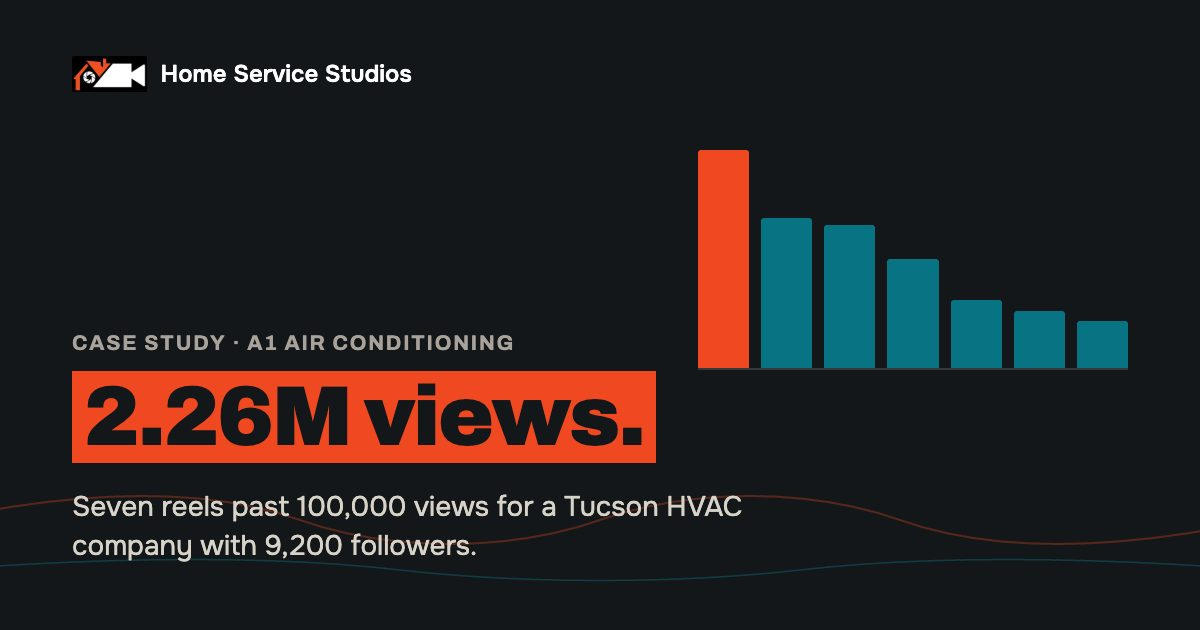
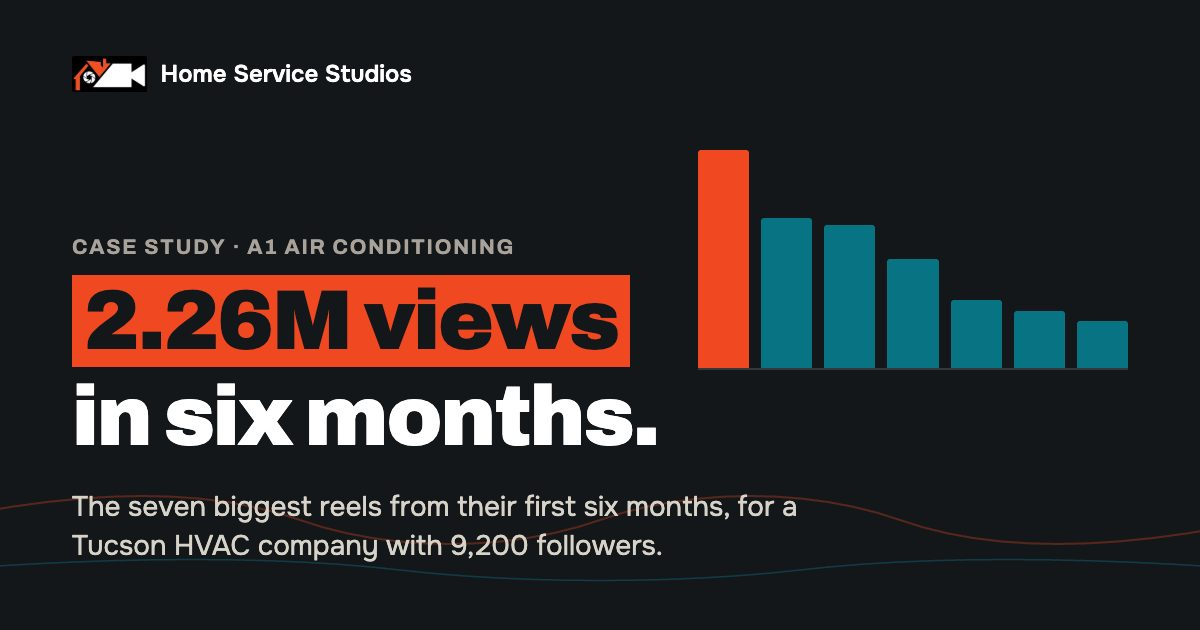
Deploy release 9: A1 results framed as their first six months
Built from 548a034.

Claude-Session: https://claude.ai/code/session_01ToX74WXy7pcyTTtmuot5ru

Changed region(s): [[0.0617, 0.3619, 0.555, 0.754], [0.0617, 0.7841, 0.6783, 0.9048]]

diff --git a/our-work/index.html b/our-work/index.html
@@ -10,10 +10,10 @@
 <link rel="preload" href="/fonts/archivo-700.woff2" as="font" type="font/woff2" crossorigin>
 <link rel="preload" href="/fonts/archivo-900.woff2" as="font" type="font/woff2" crossorigin>
 <title>Case Studies | Home Services Video Production | Home Service Studios</title>
-<meta name="description" content="Four home service companies and what changed: 2.26M views for A1 in Tucson, 3.8x the views for Bee Right There, 6.8x the followers for iComfort, ten spots from one shoot for All Heart.">
+<meta name="description" content="Four home service companies and what changed: 2.26M views in six months for A1 in Tucson, 3.8x the views for Bee Right There, 6.8x the followers for iComfort, ten spots from one shoot for All Heart.">
 <meta property="og:type" content="website">
 <meta property="og:title" content="Case Studies | Home Services Video Production | Home Service Studios">
-<meta property="og:description" content="Four home service companies and what changed: 2.26M views for A1 in Tucson, 3.8x the views for Bee Right There, 6.8x the followers for iComfort, ten spots from one shoot for All Heart.">
+<meta property="og:description" content="Four home service companies and what changed: 2.26M views in six months for A1 in Tucson, 3.8x the views for Bee Right There, 6.8x the followers for iComfort, ten spots from one shoot for All Heart.">
 <meta property="og:image" content="https://homeservicestudios.com/our-work/a/og-cover.jpg">
 <meta property="og:image:width" content="1200">
 <meta property="og:image:height" content="630">
@@ -25,7 +25,7 @@
 <meta name="twitter:image" content="https://homeservicestudios.com/our-work/a/og-cover.jpg">
[1 lines of base64/hex data omitted]
 <script type="application/ld+json">{"@context":"https://schema.org","@type":"ProfessionalService","name":"Home Service Studios","url":"https://homeservicestudios.com/","logo":"https://homeservicestudios.com/our-work/a/og-cover.jpg","image":"https://homeservicestudios.com/og/og-home.jpg","email":"info@homeservicestudios.com","address":{"@type":"PostalAddress","addressLocality":"Los Angeles","addressRegion":"CA","addressCountry":"US"},"areaServed":"US","priceRange":"$$$","description":"Video production for home service brands and creators.","hasOfferCatalog":{"@type":"OfferCatalog","name":"Social Media Packages","itemListElement":[{"@type":"Offer","name":"Baby Steps","description":"Your footage, posted every day","price":"1997","priceCurrency":"USD","availability":"https://schema.org/InStock","priceSpecification":{"@type":"UnitPriceSpecification","price":"1997","priceCurrency":"USD","unitCode":"MON","billingIncrement":"1"}},{"@type":"Offer","name":"Starter","description":"Two production days a year","price":"3847","priceCurrency":"USD","availability":"https://schema.org/InStock","priceSpecification":{"@type":"UnitPriceSpecification","price":"3847","priceCurrency":"USD","unitCode":"MON","billingIncrement":"1"}},{"@type":"Offer","name":"Bronze","description":"Starter with a bigger ad budget","price":"5847","priceCurrency":"USD","availability":"https://schema.org/InStock","priceSpecification":{"@type":"UnitPriceSpecification","price":"5847","priceCurrency":"USD","unitCode":"MON","billingIncrement":"1"}},{"@type":"Offer","name":"Silver","description":"Four production days a year","price":"7847","priceCurrency":"USD","availability":"https://schema.org/InStock","priceSpecification":{"@type":"UnitPriceSpecification","price":"7847","priceCurrency":"USD","unitCode":"MON","billingIncrement":"1"}},{"@type":"Offer","name":"Gold","description":"Two reels every weekday","price":"10847","priceCurrency":"USD","availability":"https://schema.org/InStock","priceSpecification":{"@type":"UnitPriceSpecification","price":"10847","priceCurrency":"USD","unitCode":"MON","billingIncrement":"1"}},{"@type":"Offer","name":"Platinum","description":"Gold plus a YouTube video a month","price":"13847","priceCurrency":"USD","availability":"https://schema.org/InStock","priceSpecification":{"@type":"UnitPriceSpecification","price":"13847","priceCurrency":"USD","unitCode":"MON","billingIncrement":"1"}}]}}</script>
-<script type="application/ld+json">{"@context":"https://schema.org","@type":"CollectionPage","name":"Case studies","url":"https://homeservicestudios.com/our-work/","description":"Four home service companies and what changed: 2.26M views for A1 in Tucson, 3.8x the views for Bee Right There, 6.8x the followers for iComfort, ten spots from one shoot for All Heart.","mainEntity":{"@type":"ItemList","itemListElement":[{"@type":"ListItem","position":1,"url":"https://homeservicestudios.com/our-work/a1-air-conditioning/","name":"A1 Air Conditioning case study"},{"@type":"ListItem","position":2,"url":"https://homeservicestudios.com/our-work/bee-right-there/","name":"Bee Right There Heating & Air case study"},{"@type":"ListItem","position":3,"url":"https://homeservicestudios.com/our-work/icomfort/","name":"iComfort Heating and Air Conditioning case study"},{"@type":"ListItem","position":4,"url":"https://homeservicestudios.com/our-work/all-heart/","name":"All Heart Heating, Cooling & Plumbing case study"}]}}</script>
+<script type="application/ld+json">{"@context":"https://schema.org","@type":"CollectionPage","name":"Case studies","url":"https://homeservicestudios.com/our-work/","description":"Four home service companies and what changed: 2.26M views in six months for A1 in Tucson, 3.8x the views for Bee Right There, 6.8x the followers for iComfort, ten spots from one shoot for All Heart.","mainEntity":{"@type":"ItemList","itemListElement":[{"@type":"ListItem","position":1,"url":"https://homeservicestudios.com/our-work/a1-air-conditioning/","name":"A1 Air Conditioning case study"},{"@type":"ListItem","position":2,"url":"https://homeservicestudios.com/our-work/bee-right-there/","name":"Bee Right There Heating & Air case study"},{"@type":"ListItem","position":3,"url":"https://homeservicestudios.com/our-work/icomfort/","name":"iComfort Heating and Air Conditioning case study"},{"@type":"ListItem","position":4,"url":"https://homeservicestudios.com/our-work/all-heart/","name":"All Heart Heating, Cooling & Plumbing case study"}]}}</script>
 </head>
 <body>
 <script>(function(){var m={"a1":"/our-work/a1-air-conditioning/","beerightthere":"/our-work/bee-right-there/","icomfort":"/our-work/icomfort/","allheart":"/our-work/all-heart/","handyman":"#more-work"};var h=(location.hash||'').slice(1);if(m[h])location.replace(m[h]);})();</script>
@@ -1397,7 +1397,7 @@
   <p class="sub">Four home service companies, the problem each one
   started with, and what changed, <strong>measured on their own accounts</strong>.</p>
   <div class="stats quad">
-    <a class="stat" href="/our-work/a1-air-conditioning/"><span class="case">A1 Air Conditioning</span><span class="n">2.26M</span><span class="k">Views on 7 reels</span></a>
+    <a class="stat" href="/our-work/a1-air-conditioning/"><span class="case">A1 Air Conditioning</span><span class="n">2.26M</span><span class="k">Views in six months</span></a>
     <a class="stat" href="/our-work/bee-right-there/"><span class="case">Bee Right There</span><span class="n">3.8x</span><span class="k">Views in three weeks</span></a>
     <a class="stat" href="/our-work/icomfort/"><span class="case">iComfort</span><span class="n">6.8x</span><span class="k">Followers in under a year</span></a>
     <a class="stat" href="/our-work/all-heart/"><span class="case">All Heart</span><span class="n">10</span><span class="k">Spots from one shoot</span></a>
@@ -1435,7 +1435,7 @@
   <div class="pgrid">
 <article class="pcard on-ink"><p class="pc-tag">Social Media Packages</p><h3>Posting every day and reaching almost no one.</h3><p class="pc-metric"><b>3.8x</b><span>the views in three weeks, on 24% more posts</span></p><p class="pc-who">Bee Right There Heating &amp; Air &middot; Atascadero, CA</p><a class="pc-go" href="/our-work/bee-right-there/">Read the case<span class="vh"> on Bee Right There</span>&nbsp;&rarr;</a></article>
 <article class="pcard on-ink"><p class="pc-tag">Social Media Packages</p><h3>Twenty years in business and a feed that looked quiet.</h3><p class="pc-metric"><b>6.8x</b><span>the followers in under a year, all organic</span><span class="pc-now">3,127 followers today</span></p><p class="pc-who">iComfort Heating and Air Conditioning &middot; San Fernando, CA</p><a class="pc-go" href="/our-work/icomfort/">Read the case<span class="vh"> on iComfort</span>&nbsp;&rarr;</a></article>
-<article class="pcard on-ink"><p class="pc-tag">Social Media Packages</p><h3>A crowded market where every company looks the same.</h3><p class="pc-metric"><b>2.26M</b><span>views on seven reels, in a market of one million people</span></p><p class="pc-who">A1 Air Conditioning &middot; Tucson, AZ</p><a class="pc-go" href="/our-work/a1-air-conditioning/">Read the case<span class="vh"> on A1 Air Conditioning</span>&nbsp;&rarr;</a></article>
+<article class="pcard on-ink"><p class="pc-tag">Social Media Packages</p><h3>A crowded market where every company looks the same.</h3><p class="pc-metric"><b>2.26M</b><span>views on seven reels in their first six months</span></p><p class="pc-who">A1 Air Conditioning &middot; Tucson, AZ</p><a class="pc-go" href="/our-work/a1-air-conditioning/">Read the case<span class="vh"> on A1 Air Conditioning</span>&nbsp;&rarr;</a></article>
 <article class="pcard on-ink"><p class="pc-tag">Campaign</p><h3>No video library, and no appetite for repeat shoot days.</h3><p class="pc-metric"><b>10 spots</b><span>from a single production block</span></p><p class="pc-who">All Heart Heating, Cooling &amp; Plumbing</p><a class="pc-go" href="/our-work/all-heart/">Read the case<span class="vh"> on All Heart</span>&nbsp;&rarr;</a></article>
   </div>
 </div></section>

diff --git a/our-work/a1-air-conditioning/index.html b/our-work/a1-air-conditioning/index.html
@@ -10,10 +10,10 @@
 <link rel="preload" href="/fonts/archivo-700.woff2" as="font" type="font/woff2" crossorigin>
 <link rel="preload" href="/fonts/archivo-900.woff2" as="font" type="font/woff2" crossorigin>
 <title>A1 Air Conditioning case study | Home Service Studios</title>
-<meta name="description" content="How a Tucson HVAC company with 9,200 followers built seven reels past 100,000 views, roughly 2.26 million views in a market of one million people.">
+<meta name="description" content="A Tucson HVAC company with 9,200 followers. In their first six months with us, seven reels passed 100,000 views: roughly 2.26 million views in six months, in a market of one million people.">
 <meta property="og:type" content="website">
 <meta property="og:title" content="A1 Air Conditioning case study | Home Service Studios">
-<meta property="og:description" content="How a Tucson HVAC company with 9,200 followers built seven reels past 100,000 views, roughly 2.26 million views in a market of one million people.">
+<meta property="og:description" content="A Tucson HVAC company with 9,200 followers. In their first six months with us, seven reels passed 100,000 views: roughly 2.26 million views in six months, in a market of one million people.">
 <meta property="og:image" content="https://homeservicestudios.com/og/og-a1.jpg">
 <meta property="og:image:width" content="1200">
 <meta property="og:image:height" content="630">
@@ -1396,21 +1396,21 @@
     <a href="/our-work/">Work</a><span aria-hidden="true">/</span>
     <span aria-current="page">A1 Air Conditioning</span></nav>
   <p class="eyebrow">Case 01 &middot; Home services &middot; Reach</p>
-  <h1 class="display">A1 Air Conditioning.<br><span class="hl">2.26M views.</span></h1>
-  <p class="sub">Ongoing Social Media Packages work on their organic short-form video. A Tucson HVAC company with 9,200 followers now carries <strong>seven reels past 100,000 views and three past 400,000</strong>. That is roughly 2.26 million views, in a market of one million people.</p>
+  <h1 class="display">A1 Air Conditioning.<br><span class="hl">2.26M views in six months.</span></h1>
+  <p class="sub">Ongoing Social Media Packages work on their organic short-form video. A Tucson HVAC company with 9,200 followers. In their first six months with us, <strong>seven reels passed 100,000 views and three passed 400,000</strong>. That is roughly 2.26 million views, in a market of one million people. And those are only the seven biggest. Every other video we posted in those six months added views on top.</p>
   <div class="role"><span class="lbl">Our role</span><span class="pill">Social Media Packages</span><span class="pill">Short form</span></div>
 </div></div>
 
 <section><div class="wrap">
   <div class="sec-head"><h2 class="display">How it worked</h2></div>
   <div class="csi"><div><h3>The problem</h3><p class="csi-lead">A crowded market where every company looks the same.</p><p>Local service advertising is interchangeable. Same vans, same promises, nothing anyone would repeat.</p></div><div><h3>What we changed</h3><p>Treat the service call as a premise. The best-performing spot frames a technician alone in a dark attic like the cold open of a horror film.</p></div><div><h3>What happened</h3><p>1,100 shares on the lead reel. Audiences passed it along themselves, which is the premise working rather than the media budget.</p></div></div>
-  
+  <div class="ops"><div class="op"><span class="n">6 months</span><span class="k">From the first post</span></div><div class="op"><span class="n">2.26M</span><span class="k">Views on the seven biggest reels</span></div><div class="op"><span class="n">7</span><span class="k">Reels past 100,000 views</span></div><div class="op"><span class="n">3</span><span class="k">Reels past 400,000 views</span></div></div>
 </div></section>
 
 <section><div class="wrap">
   <div class="sec-head"><h2 class="display">The reels</h2></div>
   <div class="chartwrap">
-    <p class="charttitle">Seven reels, by views. Every one of them clears 100,000.</p>
+    <p class="charttitle">The seven biggest reels from their first six months. Every one clears 100,000.</p>
     <div class="a1bars" role="img" aria-label="Seven A1 reels by view count, from 623,000 down to 134,000, every one of them above 100,000"><div class="a1plot" aria-hidden="true"><span class="a1t" style="--h:0.16"><span>100K</span></span><div class="a1b is-top" style="--h:1.00"><span class="v">623K</span><span class="bar"></span></div><div class="a1b" style="--h:0.69"><span class="v">428K</span><span class="bar"></span></div><div class="a1b" style="--h:0.66"><span class="v">410K</span><span class="bar"></span></div><div class="a1b" style="--h:0.50"><span class="v">312K</span><span class="bar"></span></div><div class="a1b" style="--h:0.31"><span class="v">195K</span><span class="bar"></span></div><div class="a1b" style="--h:0.26"><span class="v">162K</span><span class="bar"></span></div><div class="a1b" style="--h:0.22"><span class="v">134K</span><span class="bar"></span></div></div><div class="a1idx" aria-hidden="true"><span>01</span><span>02</span><span>03</span><span>04</span><span>05</span><span>06</span><span>07</span></div></div>
     <p class="chartnote">The lead reel frames a technician alone in a dark attic like the cold
     open of a horror film. It was shared 1,100 times, which is the shape of the whole account:

diff --git a/index.html b/index.html
@@ -10,10 +10,10 @@
 <link rel="preload" href="/fonts/archivo-700.woff2" as="font" type="font/woff2" crossorigin>
 <link rel="preload" href="/fonts/archivo-900.woff2" as="font" type="font/woff2" crossorigin>
 <title>Home Services Video Production | Los Angeles | Home Service Studios</title>
-<meta name="description" content="Los Angeles video production for HVAC, plumbing and home service brands. Written, shot, cut and posted monthly. 2.26M views for one HVAC client.">
+<meta name="description" content="Los Angeles video production for HVAC, plumbing and home service brands. Written, shot, cut and posted monthly. 2.26M views in six months for one HVAC client.">
 <meta property="og:type" content="website">
 <meta property="og:title" content="Home Services Video Production | Los Angeles | Home Service Studios">
-<meta property="og:description" content="Los Angeles video production for HVAC, plumbing and home service brands. Written, shot, cut and posted monthly. 2.26M views for one HVAC client.">
+<meta property="og:description" content="Los Angeles video production for HVAC, plumbing and home service brands. Written, shot, cut and posted monthly. 2.26M views in six months for one HVAC client.">
 <meta property="og:image" content="https://homeservicestudios.com/og/og-home.jpg">
 <meta property="og:image:width" content="1200">
 <meta property="og:image:height" content="630">
@@ -1409,7 +1409,7 @@
   when a homeowner needs a repair, a replacement or a remodel, <strong>the name they already know
   is yours</strong>.</p>
   <div class="stats quad">
-    <a class="stat" href="/our-work/a1-air-conditioning/"><span class="case">A1 Air Conditioning</span><span class="n">2.26M</span><span class="k">Views on 7 reels</span></a>
+    <a class="stat" href="/our-work/a1-air-conditioning/"><span class="case">A1 Air Conditioning</span><span class="n">2.26M</span><span class="k">Views in six months</span></a>
     <div class="stat"><a class="case" href="/our-work/bee-right-there/">Bee Right There</a><a class="n" href="https://www.instagram.com/reel/DF_u1LpPd-x/" aria-label="1.2M views on Bee Right There&#39;s top reel, on Instagram" target="_blank" rel="noopener noreferrer">1.2M</a><span class="k">Views on one reel</span></div>
     <a class="stat" href="/our-work/icomfort/"><span class="case">iComfort</span><span class="n">+1,680</span><span class="k">Organic followers, under a year</span></a>
     <a class="stat" href="#roster"><span class="case">Our Brands</span><span class="n">35</span><span class="k">Clients across the country</span></a>
